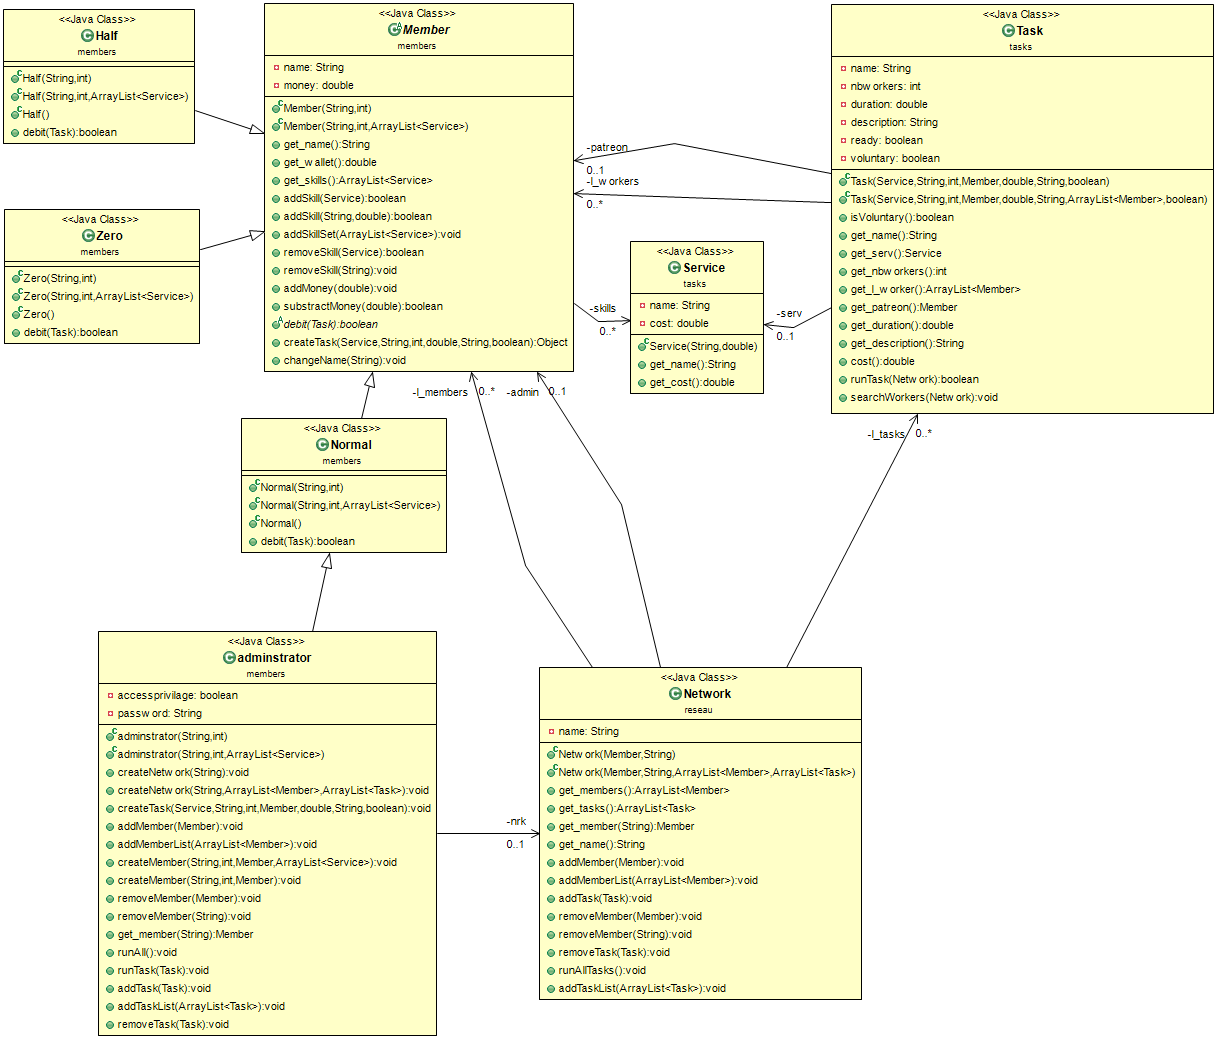
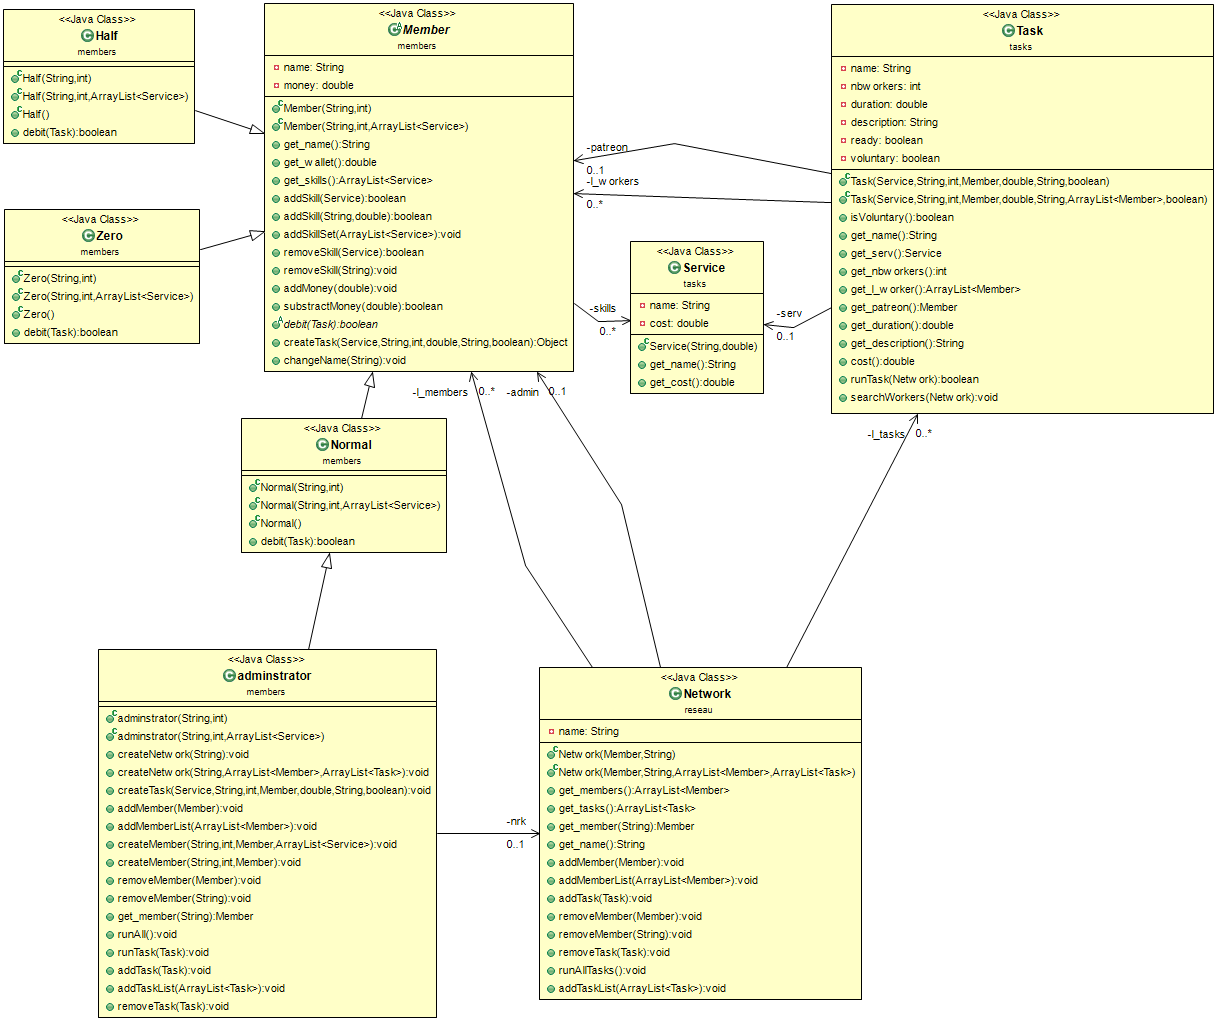
last modifications

diff --git a/src/reseau/main.java b/src/reseau/main.java
@@ -103,36 +103,6 @@ public class main {
 		System.out.println("Abra's wallet is at : " + Sam.get_member("Abrahim").get_wallet());
 		System.out.println("Chelsea's wallet is at : " + Sam.get_member("Chelsea").get_wallet());
 		System.out.println("Tom's wallet is at : " + Sam.get_member("Tom").get_wallet());
-		
-		/*
-
-		// TODO Auto-generated method stub
-		/*Member Sam = new Normal("Sam",400);
-		Member abra = new Normal("abra",400);
-		
-		Sam.addMoney(100);
-		System.out.println("Sam's Money : " + Sam.get_wallet());
-		
-		Service jardinage = new Service("Jardinage", 250);
-		Sam.addSkill(jardinage);
-		ArrayList<Member> l_workers = new ArrayList<Member>();
-		l_workers.add(Sam);
-		Task mowing = new Task(jardinage,"mowing the lawn", 1, abra, 1, "jardinage", l_workers);
-		
-		abra.debit(mowing);
-		
-		System.out.println("Sam's Money : " + Sam.get_wallet());
-		System.out.println("Abra's Money : " + abra.get_wallet());
-
-		
-		adminstrator abrahim = new adminstrator("abrahim" , 1000);
-		abrahim.createNetwork();
-		abrahim.createMember("sam", new Half());
-		Member sam = abrahim.get_member("sam");
-		System.out.println(sam.get_name());
-
-		
-		*/
 
 	}
 

diff --git a/src/members/adminstrator.java b/src/members/adminstrator.java
@@ -7,8 +7,8 @@ import tasks.*;
 
 public class adminstrator extends Normal {
 	private Network nrk;
-	private boolean accessprivilage;
-	private String password;
+	//private boolean accessprivilage;
+	//private String password;
 	
 	/**
 	 * creates an object admin with name and money
@@ -17,8 +17,8 @@ public class adminstrator extends Normal {
 	 */
 	public adminstrator(String name, int money){
 		super(name,money);
-		this.accessprivilage = false;
-		this.password = "0000";
+		//this.accessprivilage = false;
+		//this.password = "0000";
 	}
 	
 	/**
@@ -29,8 +29,8 @@ public class adminstrator extends Normal {
 	 */
 	public adminstrator(String name, int money, ArrayList<Service> skills){
 		super(name,money,skills);
-		this.accessprivilage = false;
-		this.password = "0000";
+		//this.accessprivilage = false;
+		//this.password = "0000";
 	}
 	
 	/**
@@ -185,6 +185,7 @@ public class adminstrator extends Normal {
 		System.out.println("The Admin : " + this.get_name() + " removed the task : " + t.get_name()
 								+ " from the network : " + this.nrk.get_name());
 	}
+	
 	/* //gives the user admin privilages.
 	 
 	public boolean get_privilage() {
